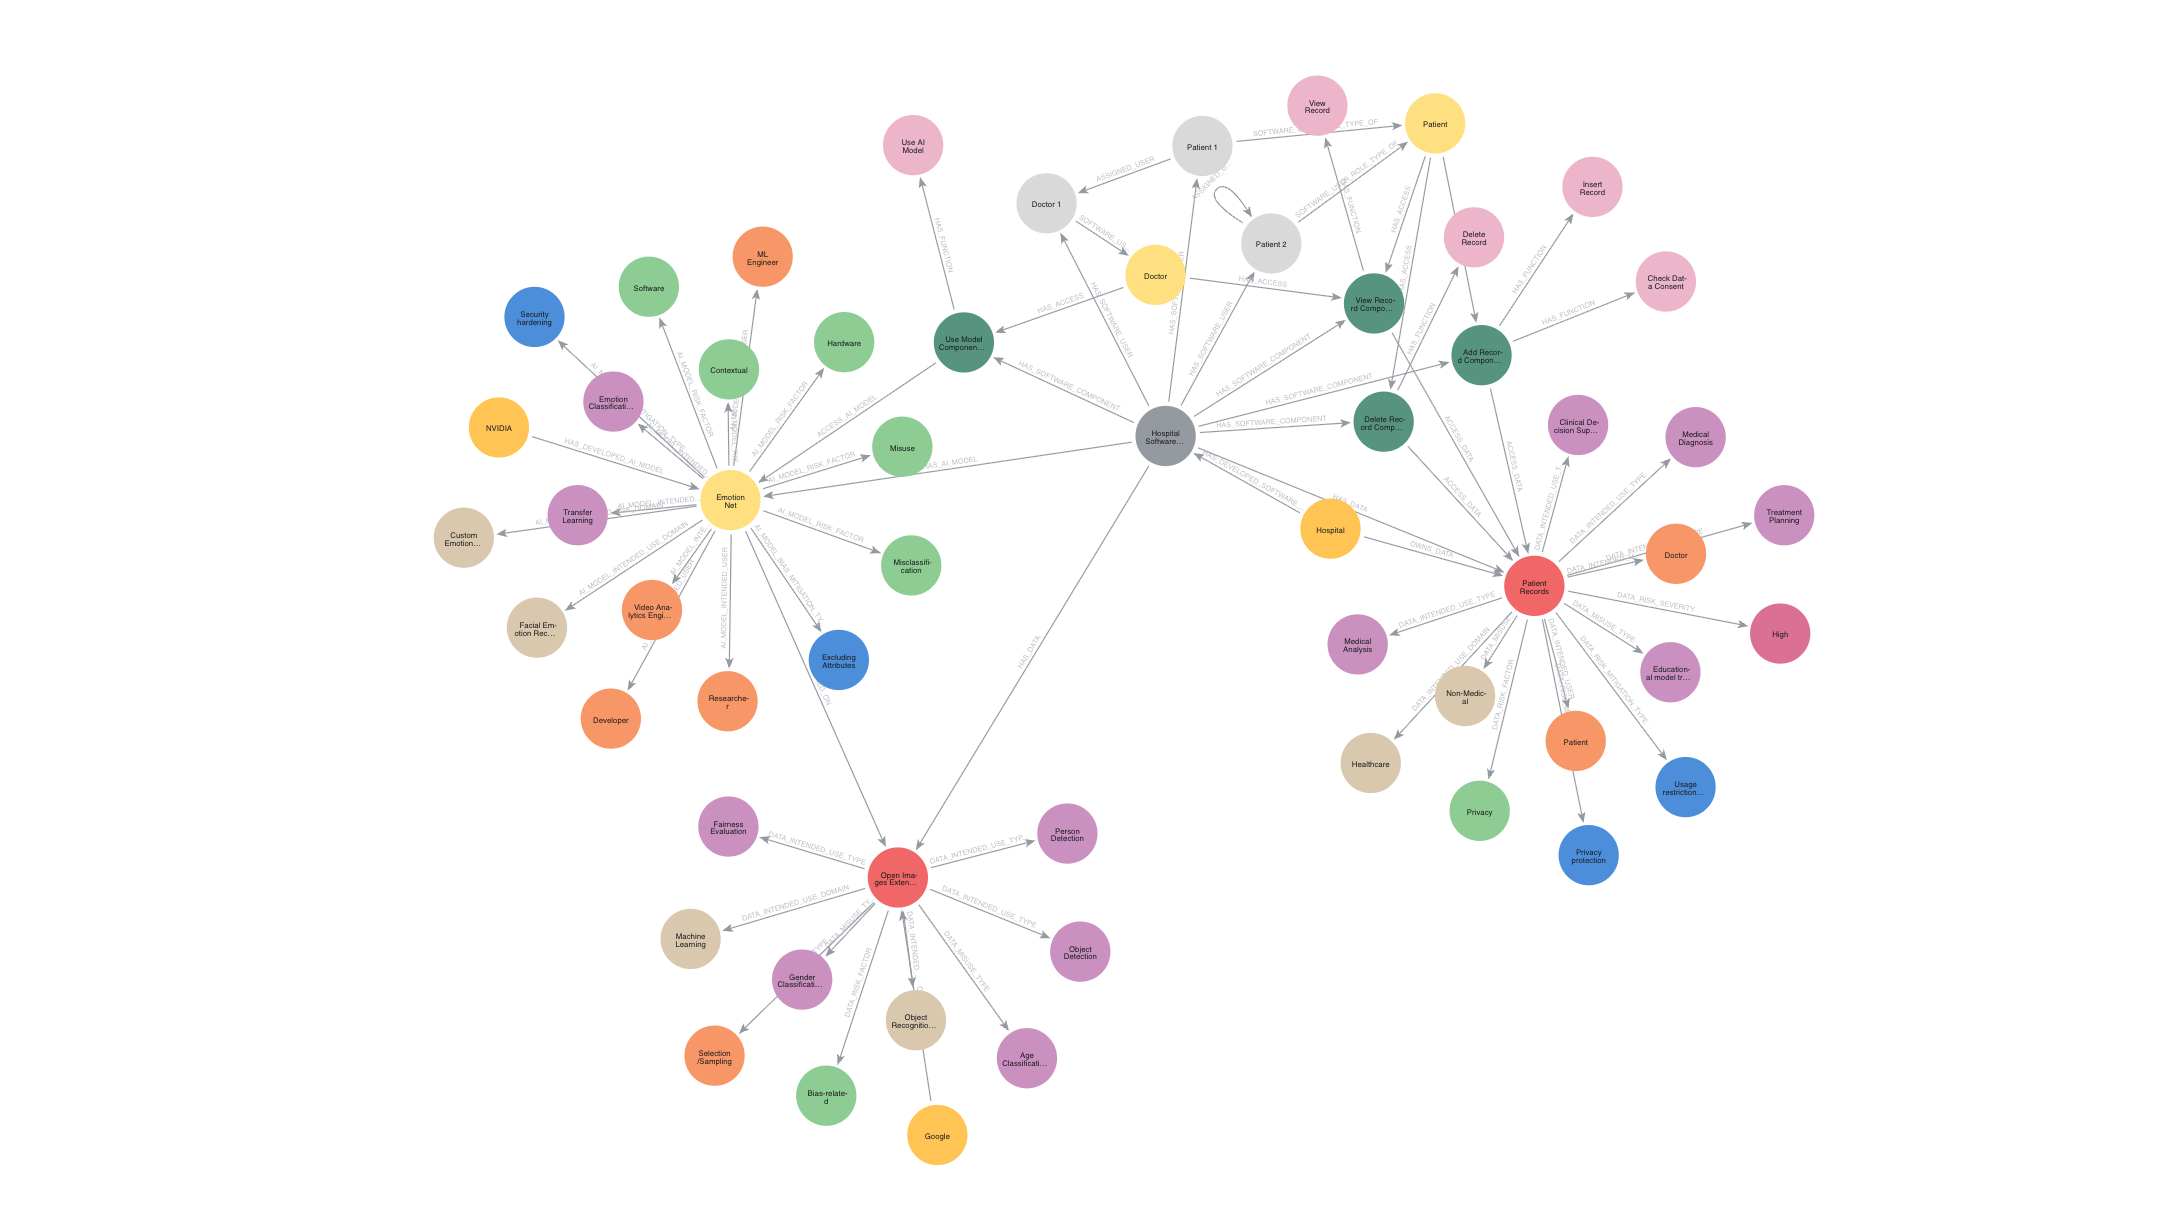
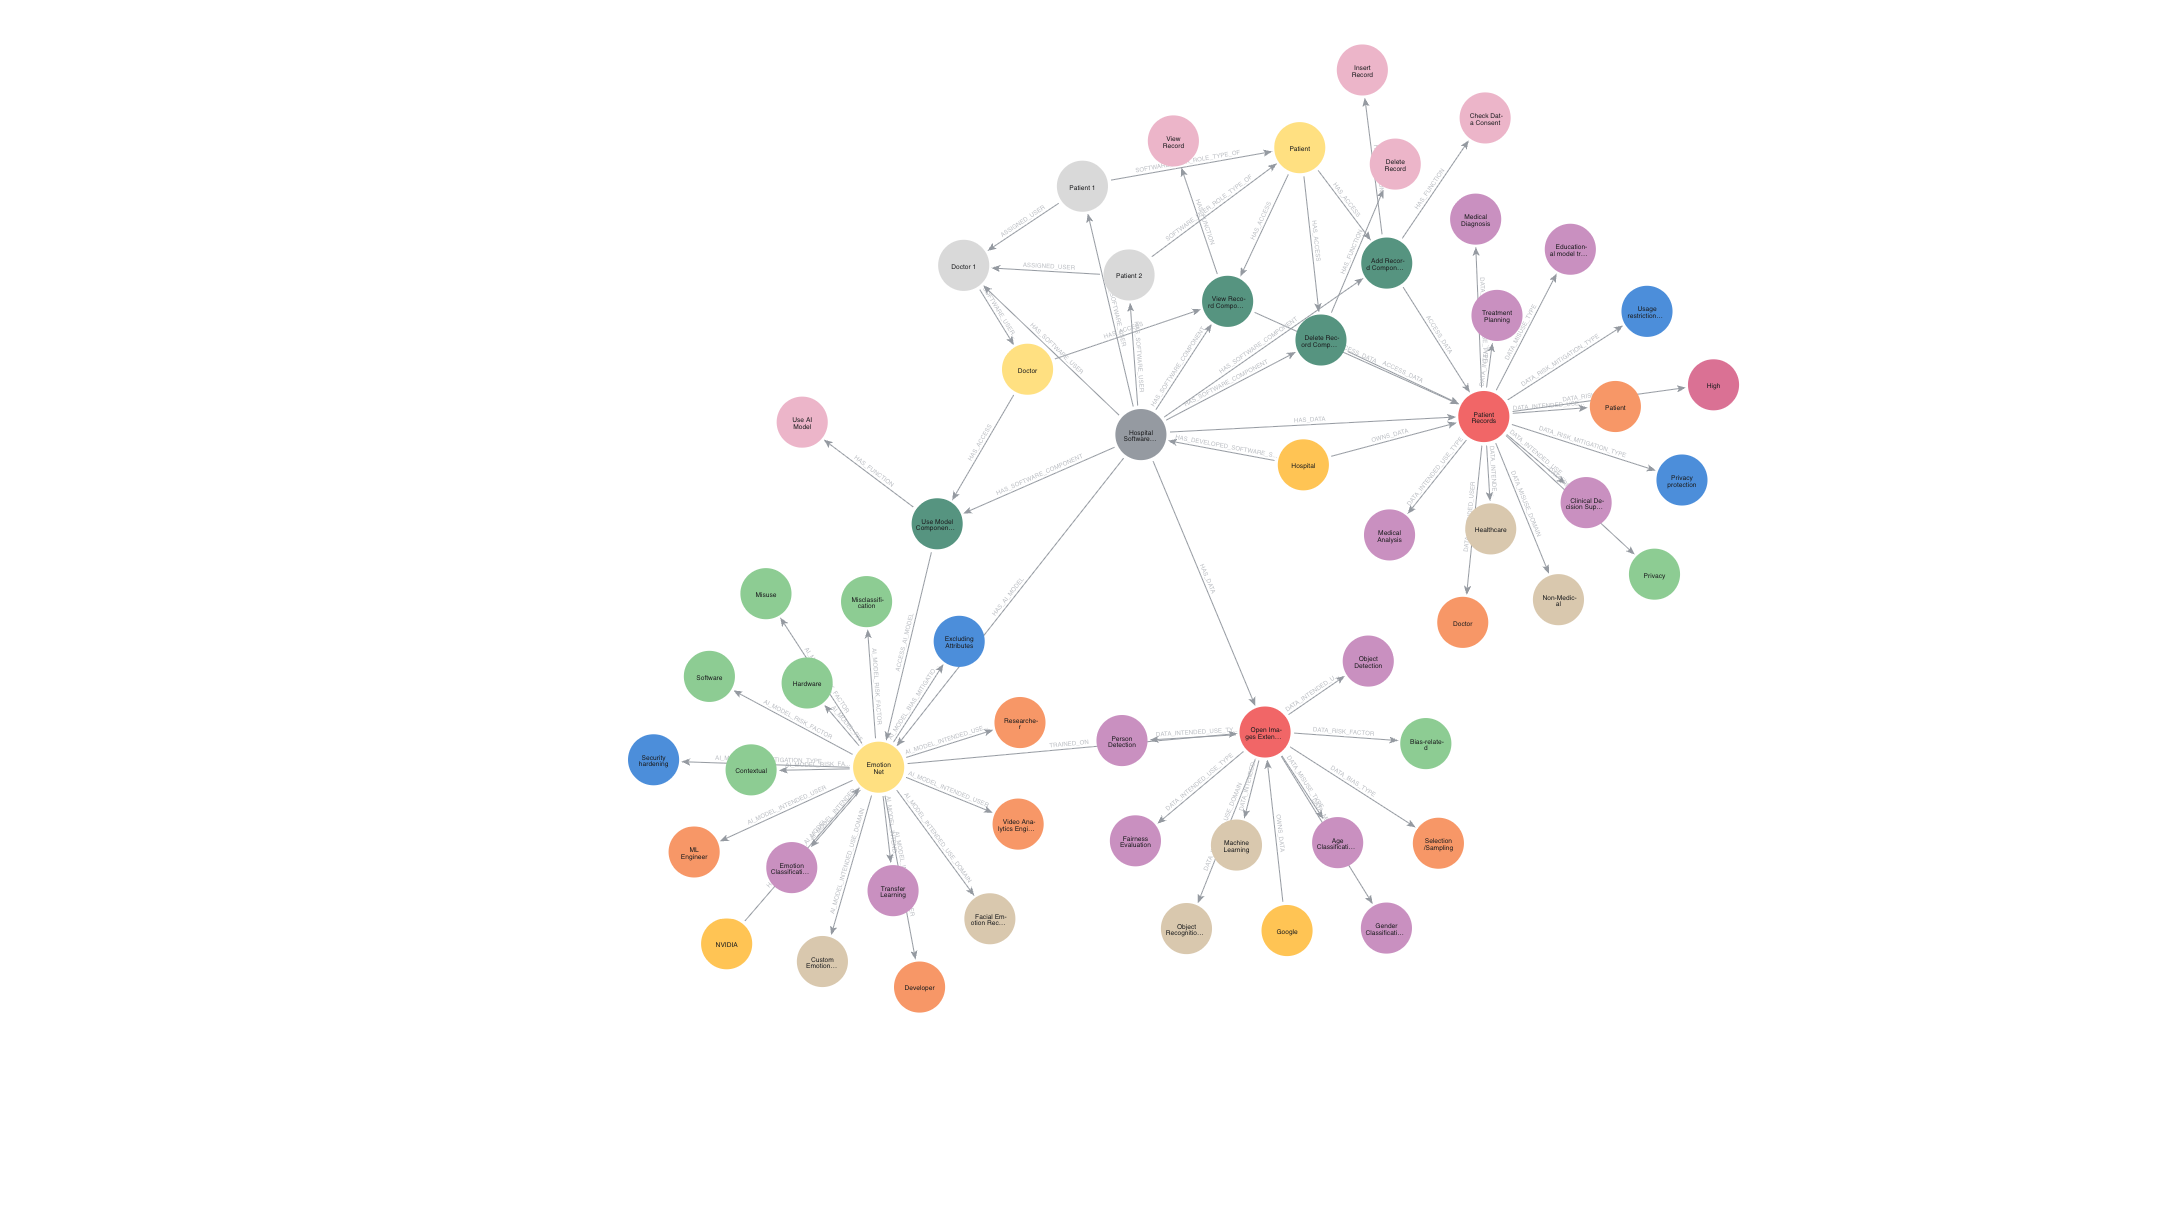
fix bug on patient card and update diagram

Changed region(s): [[0.1861, 0.0306, 0.8375, 0.9801], [0.4032, 0.0919, 0.4343, 0.1531]]

diff --git a/README.md b/README.md
@@ -109,8 +109,9 @@ To run the tests (no database needed):
 ## Sample Graph
 
 The sample graph after `npm run seed` (58 nodes, 71 relationships), as shown in Neo4j: the Hospital Software System
-in the centre, with its components, users and roles (top right), the EmotionNet model (left), and the Patient Records
-(right) and Open Images Extended MIAP (bottom) datasets, each with the values its card reports.
+in the centre, with its components, users and roles (top), the EmotionNet model (bottom left), and the Patient Records
+(right) and Open Images Extended MIAP (bottom) datasets, each with the values its card reports. Both patients are
+assigned to the doctor.
 
 ![Sample knowledge graph of the hospital scenario](graph/sample_graph.png)
 
